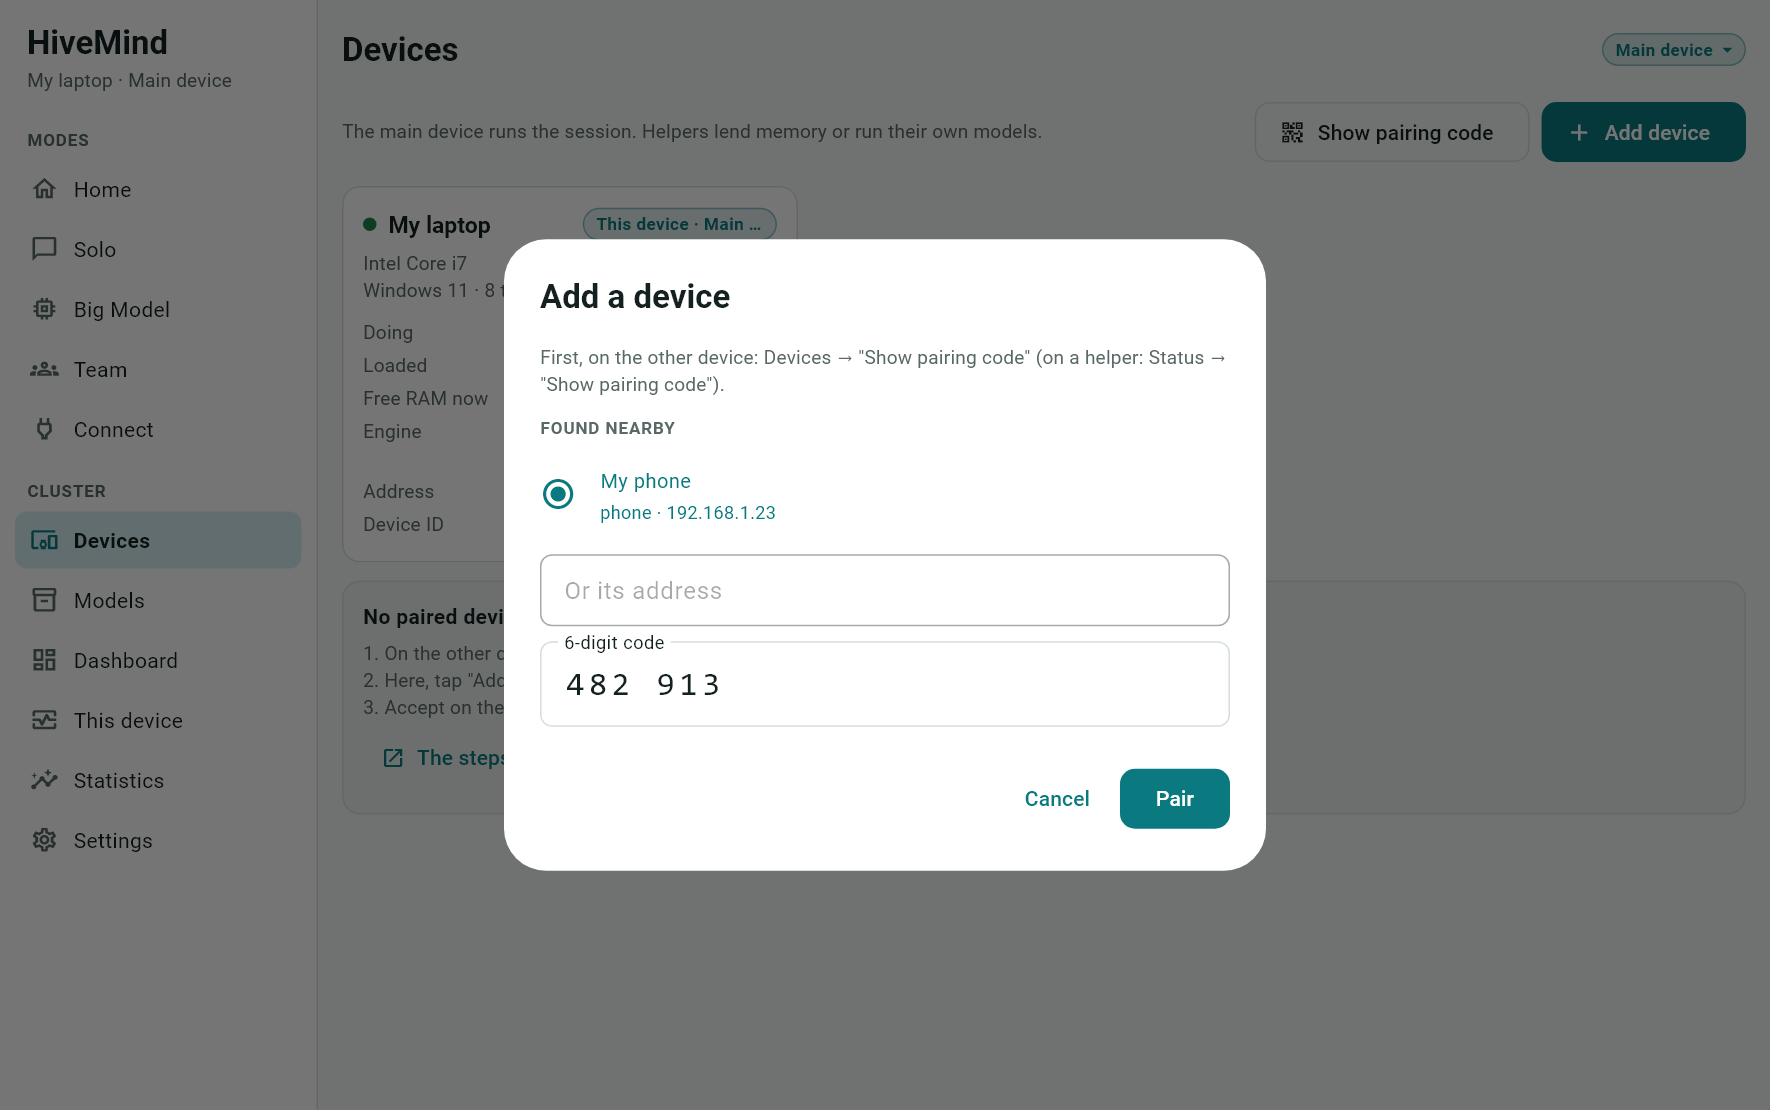
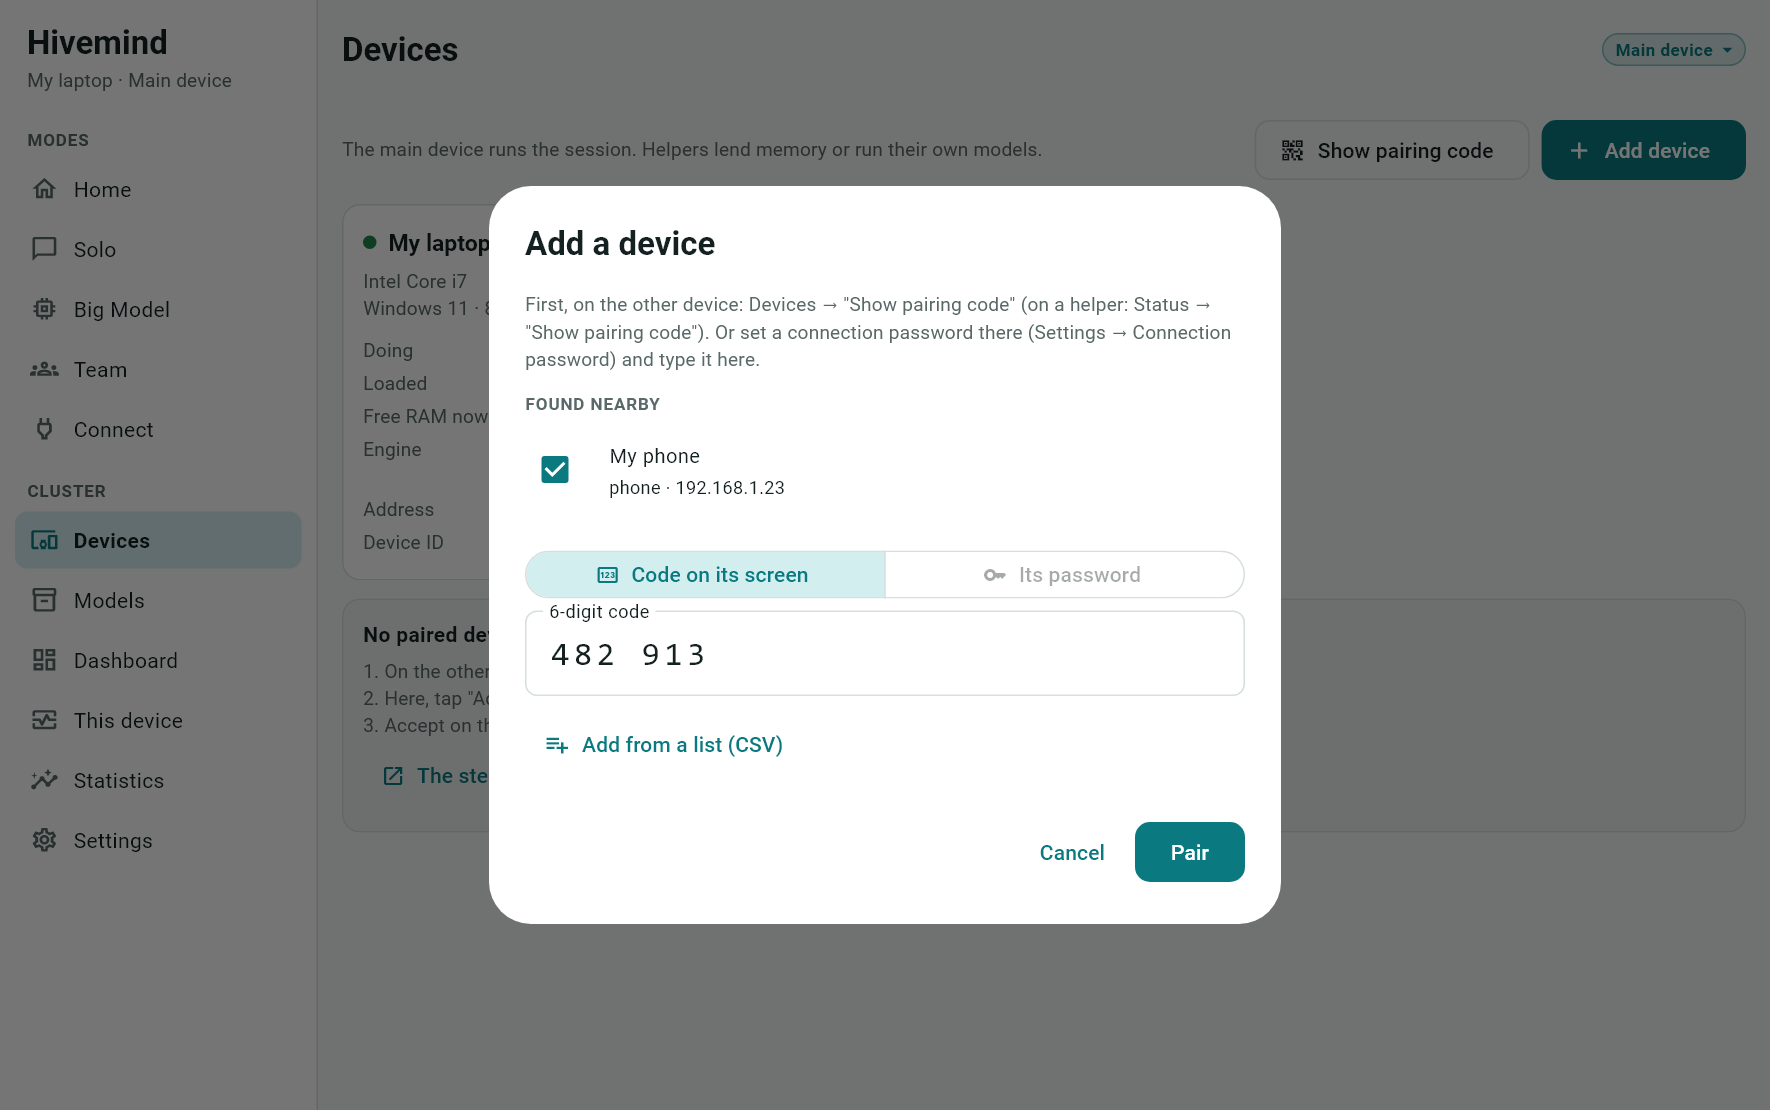
Website 2026-11-17 14:19

Changed region(s): [[0.1864, 0.0919, 0.7458, 0.8577], [0.8701, 0.0919, 0.9944, 0.1838], [0.7147, 0.0919, 0.839, 0.1532]]

diff --git a/hr/guide.html b/hr/guide.html
@@ -98,6 +98,15 @@
       </ol>
       <p>Isti koraci sa slikama: <a href="install.html#pair">Kako instalirati → Uparivanje s mobitelom</a>.</p>
       <p>Dva mobitela istog modela? Preimenuj ih s prijenosnika: olovka pokraj imena na zaslonu Uređaji.</p>
+      <h3>Više uređaja odjednom: lozinka za povezivanje</h3>
+      <ul>
+        <li>Na svakom uređaju: <b>Postavke → Lozinka za povezivanje</b>. Upiši svoju (najmanje 6 znakova) ili dodirni <b>Nasumični brojevi</b>, pa <b>Spremi lozinku</b>. Šesteroznamenkasti kod i dalje radi.</li>
+        <li>Na glavnom uređaju: <b>Uređaji → Dodaj uređaj</b>, označi više uređaja pod <b>Pronađeno u blizini</b>, ostavi uključeno <b>Jedna lozinka za sve</b> i upiši je jednom. Ili to isključi i upiši lozinku svakog uređaja (ili kod s njegovog zaslona).</li>
+        <li>Dugačak popis: <b>Dodaj s popisa (CSV)</b>. Jedan uređaj po retku: <code>adresa,lozinka,naziv</code> (IP adresa ili ime prikazano pod Pronađeno u blizini). Retci bez lozinke koriste lozinku upisanu u prozoru. Radi i Excelova točka sa zarezom.</li>
+        <li>Uređaj koji zna lozinku dodaje se bez pitanja. Ako ipak želiš pitanje: <b>Pitaj me prije prihvaćanja</b> u njegovim Postavkama. Nakon 5 pogrešnih lozinki uređaj neko vrijeme odbija lozinku.</li>
+      </ul>
+      <h3>Ograničenja za uređaj</h3>
+      <p>Na glavnom uređaju: <b>Uređaji → uređaj → Ograničenja</b>. <b>Procesor</b>: koristi najviše dio njegovog procesora (manje dretvi). <b>Memorija</b>: Velikom modelu i Timu daj najviše dio njegovog RAM-a. <b>Preskoči ga kad je zauzet</b>: izostavi ga iz novih poslova dok mu je procesor zauzetiji od postavljenog (mobiteli javljaju samo Hivemindovu potrošnju).</p>
     </section>
 
     <section id="roles">

diff --git a/guide.html b/guide.html
@@ -98,6 +98,15 @@
       </ol>
       <p>The same steps with pictures: <a href="install.html#pair">How to install → Pair with your phone</a>.</p>
       <p>Two phones of the same model? Rename them from the laptop: the pencil next to the name on the Devices screen.</p>
+      <h3>Several devices at once: a connection password</h3>
+      <ul>
+        <li>On each device: <b>Settings → Connection password</b>. Type your own (at least 6 characters) or tap <b>Random numbers</b>, then <b>Save password</b>. The 6-digit code keeps working too.</li>
+        <li>On the main device: <b>Devices → Add device</b>, tick several devices under <b>Found nearby</b>, keep <b>One password for all</b> on and type it once. Or switch it off and type each device's password (or the code on its screen).</li>
+        <li>A long list: <b>Add from a list (CSV)</b>. One device per line: <code>address,password,name</code> (an IP address or the name shown under Found nearby). Lines without a password use the one you type in the dialog. Excel's semicolons work too.</li>
+        <li>A device that knows the password is added without asking. To be asked anyway: <b>Ask me before accepting</b> in its Settings. After 5 wrong passwords a device refuses the password for a while.</li>
+      </ul>
+      <h3>Limits for a device</h3>
+      <p>On the main device: <b>Devices → a device → Limits</b>. <b>Processor</b>: use at most a share of its processor (fewer threads). <b>Memory</b>: give Big Model and Team at most a share of its RAM. <b>Skip it when busy</b>: leave it out of new jobs while its processor is busier than you set (phones report only Hivemind's own use).</p>
     </section>
 
     <section id="roles">
